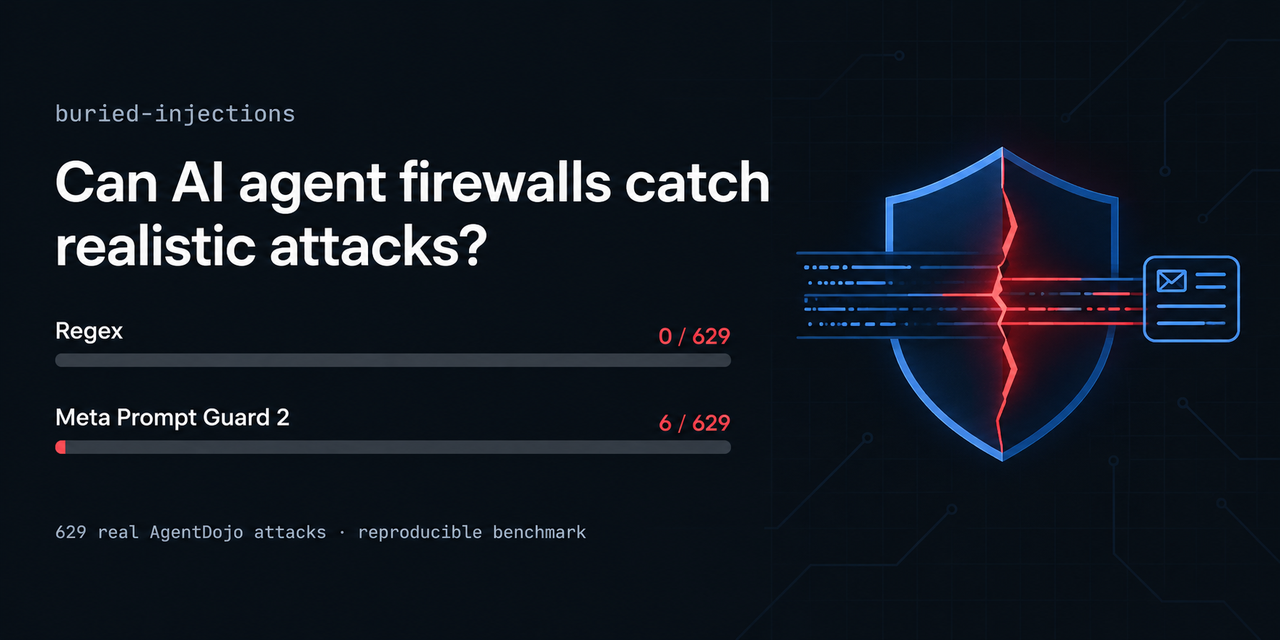
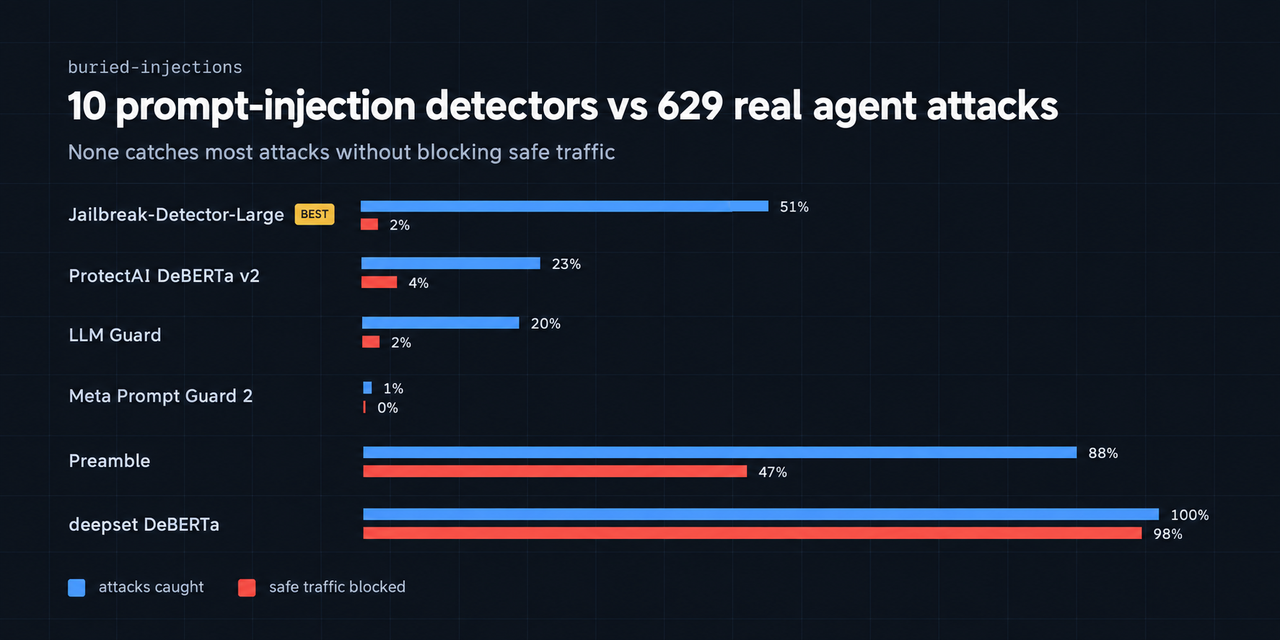
Replace preview image with the 10-detector leaderboard chart

diff --git a/README.md b/README.md
@@ -11,7 +11,7 @@
 ![Benign](https://img.shields.io/badge/benign-97-success)
 ![License](https://img.shields.io/badge/license-MIT-green)
 
-<img src="assets/social-preview.png" alt="Regex catches 0/629, Prompt Guard 2 catches 6/629 AgentDojo attacks" width="720">
+<img src="assets/social-preview.png" alt="10 prompt-injection detectors vs 629 real agent attacks: none catches most attacks without blocking safe traffic" width="720">
 
 </div>
 
